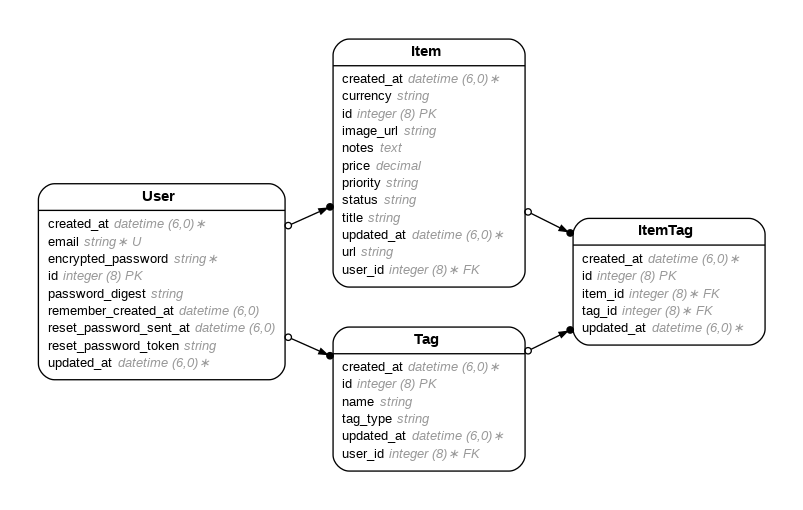
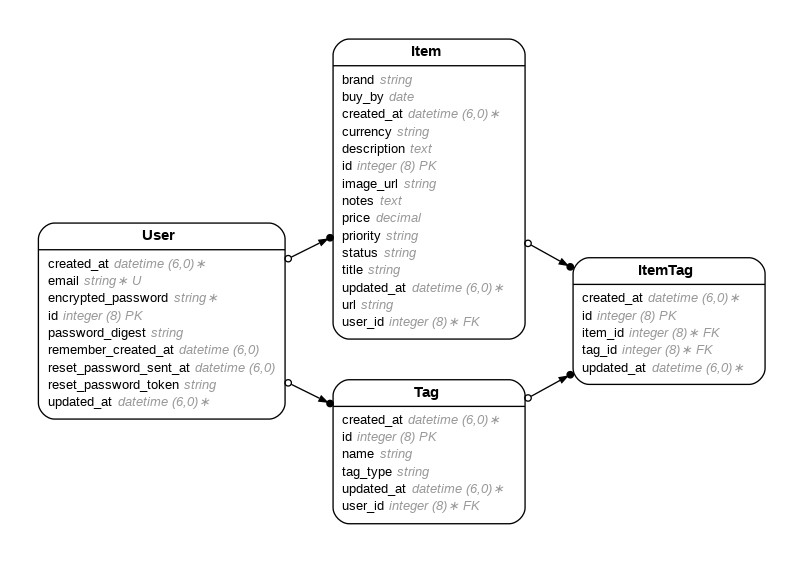
formatted

Changed region(s): [[0.0311, 0.0588, 0.6849, 0.9412], [0.6849, 0.4118, 0.9651, 0.7059], [0.6538, 0.4118, 0.6849, 0.4412]]

diff --git a/app/controllers/items_controller.rb b/app/controllers/items_controller.rb
@@ -11,6 +11,28 @@ class ItemsController < ApplicationController
     render({ :template => "item_templates/index" })
   end
 
+  def show
+  if current_user == nil
+    redirect_to("/users/sign_in")
+    return
+  end
+
+  the_id = params.fetch("path_id")
+  @the_item = Item.where({ :id => the_id, :user_id => current_user.id }).at(0)
+
+  if @the_item == nil
+    redirect_to("/categories")
+    return
+  end
+
+  item_tag = ItemTag.where({ :item_id => @the_item.id }).at(0)
+  if item_tag != nil
+    @the_tag = Tag.where({ :id => item_tag.tag_id }).at(0)
+  end
+
+  render({ :template => "item_templates/show" })
+  end
+
   def create
   if current_user == nil
     redirect_to("/users/sign_in")
@@ -22,13 +44,15 @@ class ItemsController < ApplicationController
   the_item.url = params.fetch("query_url")
   the_item.buy_by = params.fetch("query_buy_by", "")
   the_item.notes = params.fetch("query_notes", "")
+  the_item.priority = params.fetch("query_priority", "None")
 
-  # Get item details from ChatGPT
   item_details = get_item_details_from_ai(the_item.url)
   the_item.title = item_details[:title]
   the_item.image_url = item_details[:image_url]
   the_item.price = item_details[:price]
   the_item.currency = item_details[:currency]
+  the_item.description = item_details[:description]
+  the_item.brand = item_details[:store]
 
   if the_item.valid?
     the_item.save
@@ -68,10 +92,18 @@ class ItemsController < ApplicationController
     return
   end
 
-  the_id = params.fetch("id")
+  the_id = params.fetch("path_id")
   the_item = Item.where({ :id => the_id, :user_id => current_user.id }).at(0)
 
+  # Find the category before deleting
+  category_id = nil
   if the_item != nil
+    item_tag = ItemTag.where({ :item_id => the_item.id }).at(0)
+    if item_tag != nil
+      category_id = item_tag.tag_id
+    end
+
+    # Delete associated item_tags
     matching_item_tags = ItemTag.where({ :item_id => the_item.id })
     matching_item_tags.each do |an_item_tag|
       an_item_tag.destroy
@@ -80,6 +112,90 @@ class ItemsController < ApplicationController
     the_item.destroy
   end
 
-  redirect_to("/categories", { :notice => "Item deleted successfully." })
+  if category_id != nil
+    redirect_to("/categories/" + category_id.to_s, { :notice => "Item deleted successfully." })
+  else
+    redirect_to("/categories", { :notice => "Item deleted successfully." })
+  end
+  end
+
+
+  def get_item_details_from_ai(url)
+  require "http"
+  require "json"
+
+  existing_tags = Tag.where({ :user_id => current_user.id }).pluck(:name)
+  
+  if existing_tags.any?
+    category_list = existing_tags.join(", ")
+    category_instruction = "Pick the best category from this list: #{category_list}. If none fit, create a new short category name."
+  else
+    category_instruction = "Suggest a short category name (1-2 words) like: Clothes, Electronics, Books, Home, Beauty, Sports, Toys, Food, Gifts."
+  end
+
+  prompt = "Based on this URL: #{url}
+
+Extract the following information and respond in this exact format:
+TITLE: [product name]
+PRICE: [number only, no symbols]
+CURRENCY: [USD, EUR, etc.]
+STORE: [store name like Amazon, Nike, etc.]
+CATEGORY: [#{category_instruction}]
+DESCRIPTION: [a short 1-2 sentence visual description including color, material, and style]
+
+If you cannot determine something, leave it blank. Respond with ONLY the format above, nothing else."
+
+  api_key = ENV["OPENAI_API_KEY"]
+
+  request_headers_hash = {
+    "Authorization" => "Bearer #{ENV.fetch("OPENAI_API_KEY")}",
+    "content-type" => "application/json"
+  }
+
+  request_body_hash = {
+    "model" => "gpt-4.1-nano",
+    "messages" => [
+      {
+        "role" => "user",
+        "content" => prompt
+      }
+    ]
+  }
+
+  request_body_json = JSON.generate(request_body_hash)
+
+  raw_response = HTTP.headers(request_headers_hash).post(
+    "https://api.openai.com/v1/chat/completions",
+    :body => request_body_json
+  ).to_s
+
+  parsed_response = JSON.parse(raw_response)
+
+  result = parsed_response.fetch("choices").at(0).fetch("message").fetch("content")
+
+  title = ""
+  price = ""
+  currency = ""
+  store = ""
+  category = "Other"
+  description = ""
+
+  result.each_line do |line|
+    if line.start_with?("TITLE:")
+      title = line.sub("TITLE:", "").strip
+    elsif line.start_with?("PRICE:")
+      price = line.sub("PRICE:", "").strip
+    elsif line.start_with?("CURRENCY:")
+      currency = line.sub("CURRENCY:", "").strip
+    elsif line.start_with?("STORE:")
+      store = line.sub("STORE:", "").strip
+    elsif line.start_with?("CATEGORY:")
+      category = line.sub("CATEGORY:", "").strip
+    elsif line.start_with?("DESCRIPTION:")
+      description = line.sub("DESCRIPTION:", "").strip
+    end
+  end
+
+  return { title: title, price: price, currency: currency, category: category, store: store, description: description }
   end
 end

diff --git a/app/controllers/tags_controller.rb b/app/controllers/tags_controller.rb
@@ -12,29 +12,40 @@ class TagsController < ApplicationController
   end
 
   def show
-    if current_user == nil
-      redirect_to("/users/sign_in")
-      return
+  if current_user == nil
+    redirect_to("/users/sign_in")
+    return
+  end
+
+  @the_tag = Tag.where({ :id => params.fetch("id"), :user_id => current_user.id }).at(0)
+
+  if @the_tag == nil
+    redirect_to("/categories")
+    return
+  end
+
+  matching_item_tags = ItemTag.where({ :tag_id => @the_tag.id })
+  @list_of_items = []
+
+  matching_item_tags.each do |an_item_tag|
+    the_item = Item.where({ :id => an_item_tag.item_id, :user_id => current_user.id }).at(0)
+    if the_item != nil
+      @list_of_items.push(the_item)
     end
+  end
 
-    @the_tag = Tag.where({ :id => params.fetch(:id), :user_id => current_user.id }).at(0)
+  sort_by = params.fetch("sort_by", "")
 
-    if @the_tag == nil
-      redirect_to("/categories")
-      return
-    end
+  if sort_by == "price"
+    @list_of_items = @list_of_items.sort_by { |item| item.price.to_f }.reverse
+  elsif sort_by == "priority"
+    priority_order = { "High" => 1, "Medium" => 2, "Low" => 3, "None" => 4, nil => 5, "" => 5 }
+    @list_of_items = @list_of_items.sort_by { |item| priority_order.fetch(item.priority, 5) }
+  elsif sort_by == "buy_by"
+    @list_of_items = @list_of_items.sort_by { |item| item.buy_by || Date.new(9999, 12, 31) }
+  end
 
-    matching_item_tags = ItemTag.where({ :tag_id => @the_tag.id })
-    @list_of_items = []
-
-    matching_item_tags.each do |an_item_tag|
-      the_item = Item.where({ :id => an_item_tag.item_id, :user_id => current_user.id }).at(0)
-      if the_item != nil
-        @list_of_items.push(the_item)
-      end
-    end
-
-    render({ :template => "tag_templates/show" })
+  render({ :template => "tag_templates/show" })
   end
 
   def destroy

diff --git a/app/models/item.rb b/app/models/item.rb
@@ -2,18 +2,21 @@
 #
 # Table name: items
 #
-#  id         :bigint           not null, primary key
-#  currency   :string
-#  image_url  :string
-#  notes      :text
-#  price      :decimal(, )
-#  priority   :string
-#  status     :string
-#  title      :string
-#  url        :string
-#  created_at :datetime         not null
-#  updated_at :datetime         not null
-#  user_id    :bigint           not null
+#  id          :bigint           not null, primary key
+#  brand       :string
+#  buy_by      :date
+#  currency    :string
+#  description :text
+#  image_url   :string
+#  notes       :text
+#  price       :decimal(, )
+#  priority    :string
+#  status      :string
+#  title       :string
+#  url         :string
+#  created_at  :datetime         not null
+#  updated_at  :datetime         not null
+#  user_id     :bigint           not null
 #
 # Indexes
 #

diff --git a/db/schema.rb b/db/schema.rb
@@ -10,7 +10,7 @@
 #
 # It's strongly recommended that you check this file into your version control system.
 
-ActiveRecord::Schema[8.0].define(version: 2025_12_12_084834) do
+ActiveRecord::Schema[8.0].define(version: 2025_12_14_122817) do
   # These are extensions that must be enabled in order to support this database
   enable_extension "pg_catalog.plpgsql"
 
@@ -35,6 +35,9 @@ ActiveRecord::Schema[8.0].define(version: 2025_12_12_084834) do
     t.string "status"
     t.datetime "created_at", null: false
     t.datetime "updated_at", null: false
+    t.date "buy_by"
+    t.text "description"
+    t.string "brand"
     t.index ["user_id"], name: "index_items_on_user_id"
   end
 

diff --git a/config/routes.rb b/config/routes.rb
@@ -8,5 +8,7 @@ Rails.application.routes.draw do
   get("/categories/:id", { :controller => "tags", :action => "show" })
   get("/delete_category/:path_id", { :controller => "tags", :action => "destroy" })
   post("/insert_category", { :controller => "tags", :action => "create" })
+  get("/items/:path_id", { :controller => "items", :action => "show" })
+  get("/delete_item/:path_id", { :controller => "items", :action => "destroy" })
 
 end

diff --git a/db/migrate/20251214114525_add_description_to_items.rb b/db/migrate/20251214114525_add_description_to_items.rb
@@ -1,0 +1,5 @@
+class AddDescriptionToItems < ActiveRecord::Migration[8.0]
+  def change
+    add_column :items, :description, :text
+  end
+end

diff --git a/db/migrate/20251214122817_add_brand_to_items.rb b/db/migrate/20251214122817_add_brand_to_items.rb
@@ -1,0 +1,5 @@
+class AddBrandToItems < ActiveRecord::Migration[8.0]
+  def change
+    add_column :items, :brand, :string
+  end
+end

diff --git a/db/migrate/20251214040641_add_buy_by_to_items.rb b/db/migrate/20251214040641_add_buy_by_to_items.rb
@@ -1,0 +1,5 @@
+class AddBuyByToItems < ActiveRecord::Migration[8.0]
+  def change
+    add_column :items, :buy_by, :date
+  end
+end
